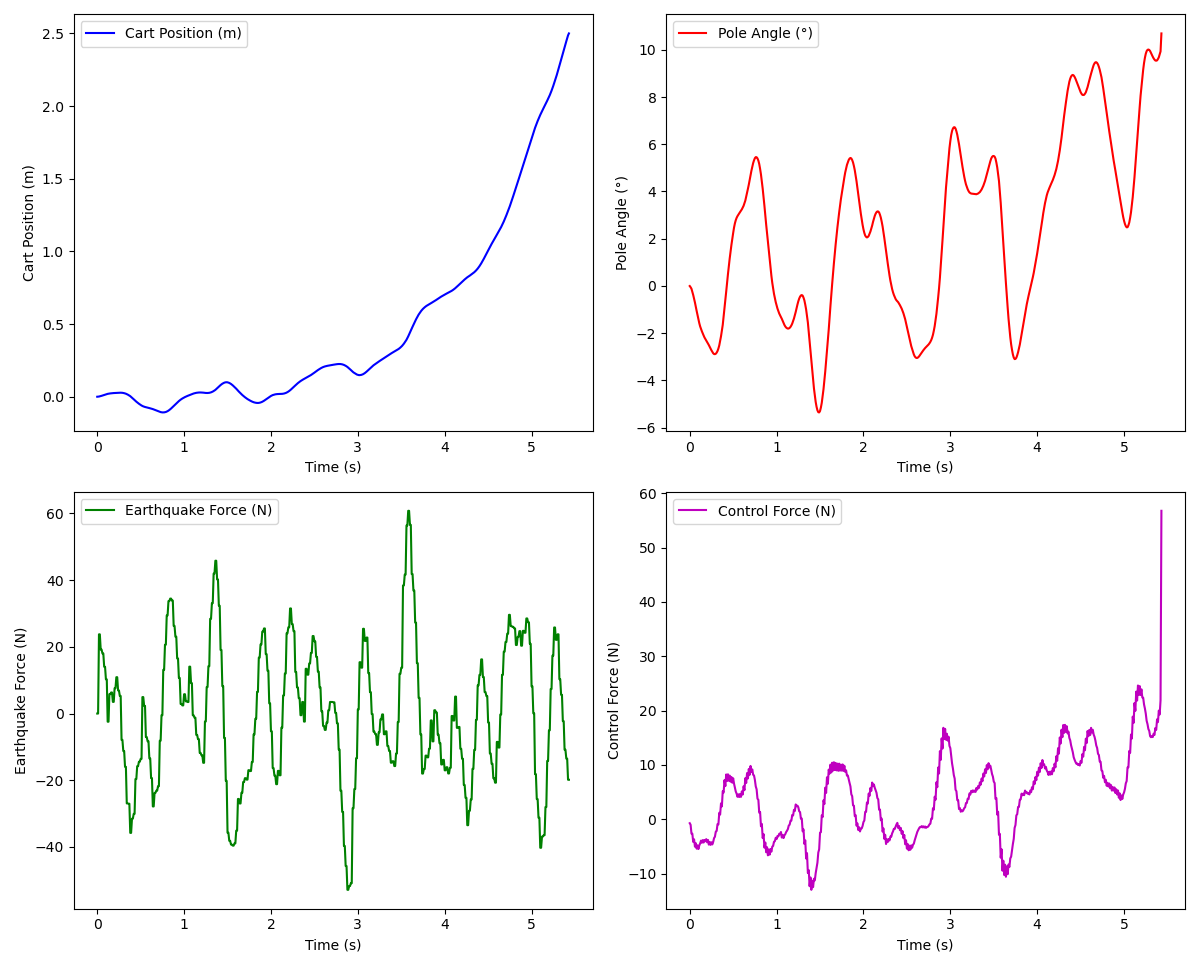
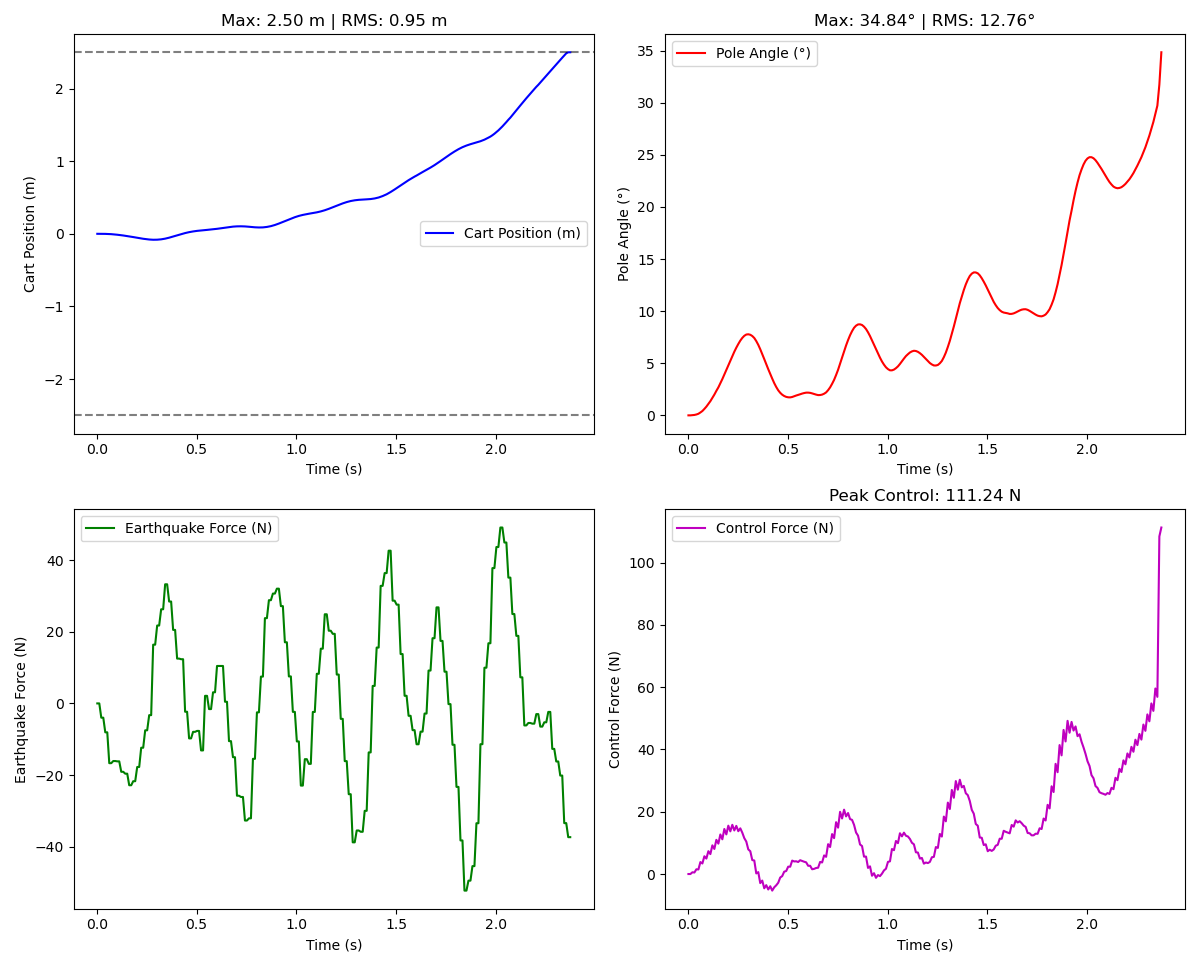
write report

diff --git a/assignments/cart_pole_optimal_control/cart_pole_optimal_control/lqr_controller.py b/assignments/cart_pole_optimal_control/cart_pole_optimal_control/lqr_controller.py
@@ -35,7 +35,7 @@ class CartPoleLQRController(Node):
         ])
         
         # LQR cost matrices
-        self.Q = np.diag([1.0, 1.0, 1.0, 1.0])  # State cost
+        self.Q = np.diag([1.0, 1.0, 1.0, 100.0])  # State cost [x, x_dot, theta, theta_dot]
         self.R = np.array([[1.0]])  # Control cost
         
         # Compute LQR gain matrix
@@ -224,17 +224,6 @@ class CartPoleLQRController(Node):
         plt.xlabel('Time (s)')
         plt.ylabel('Control Force (N)')
         plt.legend()
-
-        # Overall Summary Text
-        summary_text = (
-            f"Constraint Violated: {constraint_violation}\n"
-            f"Max Cart = {max_x:.2f} m\n"
-            f"Max Angle = {max_theta:.2f}°\n"
-            f"Peak Control = {max_u:.2f} N"
-        )
-
-        plt.gcf().text(0.5, 0.02, summary_text, ha='center', fontsize=10)
-
         plt.tight_layout()
         plt.show()
 

diff --git a/assignments/cart_pole_optimal_control/LQR_CartPole_Report.md b/assignments/cart_pole_optimal_control/LQR_CartPole_Report.md
@@ -1,0 +1,206 @@
+# LQR Control of Cart-Pole System Under Earthquake Disturbances
+
+## 1. Introduction
+
+This project evaluates a Linear Quadratic Regulator (LQR) controller
+applied to a cart-pole system in a ROS2 + Gazebo simulation environment
+under earthquake disturbances.
+
+The system state vector is defined as:
+
+x = \[x, x_dot, theta, theta_dot\]\^T
+
+Where: - x: Cart position (m) - x_dot: Cart velocity (m/s) - theta: Pole
+angle (deg in plots) - theta_dot: Pole angular velocity
+
+### Control Objectives
+
+1.  Maintain the pendulum in the upright position\
+2.  Keep the cart within ±2.5 m physical limits\
+3.  Achieve stable operation under earthquake disturbances
+
+------------------------------------------------------------------------
+
+## 2. LQR Design
+
+The LQR cost function is defined as:
+
+J = ∫ (x\^T Q x + u\^T R u) dt
+
+Where:
+
+Q = diag(q1, q2, q3, q4)\
+R = scalar control penalty
+
+Different Q weight configurations were tested to understand performance
+trade-offs between stability, tracking, and control effort.
+
+------------------------------------------------------------------------
+
+## 3. Experimental Configurations
+
+The following Q matrices were evaluated (R kept constant):
+
+1.  Q = diag(\[1, 100, 1, 1\]) --- High cart velocity weight\
+2.  Q = diag(\[1, 1, 1, 100\]) --- High angular velocity weight\
+3.  Q = diag(\[100, 1, 1, 1\]) --- High cart position weight\
+4.  Q = diag(\[1, 1, 100, 1\]) --- High pole angle weight\
+5.  Default balanced configuration
+
+Each case was tested under earthquake force disturbances.
+
+------------------------------------------------------------------------
+
+## 4. Results and Performance Analysis
+
+### Case 1: High Cart Velocity Weight
+
+Q = diag(\[1,100,1,1\])
+
+-   Max cart displacement: 2.50 m (physical boundary reached)\
+-   RMS cart position: 0.95 m\
+-   Max pole angle: 34.84°\
+-   RMS pole angle: 12.76°\
+-   Peak control force: 111.24 N
+
+**Observation:**\
+Large pole oscillations occurred. The cart approached the ±2.5 m limit.
+Emphasizing cart velocity alone does not sufficiently stabilize the
+pendulum. Control effort increased significantly.
+
+------------------------------------------------------------------------
+
+### Case 2: High Angular Velocity Weight
+
+Q = diag(\[1,1,1,100\])
+
+-   Max cart displacement: 0.57 m\
+-   RMS cart position: 0.20 m\
+-   Max pole angle: 7.13°\
+-   RMS pole angle: 3.02°\
+-   Peak control force: 46.52 N
+
+**Observation:**\
+System remained stable for the full duration. Both cart displacement and
+pole deviation were significantly reduced. Control effort remained
+moderate. This configuration showed strong disturbance rejection and
+balanced behavior.
+
+------------------------------------------------------------------------
+
+### Case 3: High Cart Position Weight
+
+Q = diag(\[100,1,1,1\])
+
+-   Max cart displacement: 2.50 m (boundary reached)\
+-   RMS cart position: 1.03 m\
+-   Max pole angle: 8.22°\
+-   RMS pole angle: 3.67°\
+-   Peak control force: 59.11 N
+
+**Observation:**\
+Pole stability improved compared to Case 1, but cart drift eventually
+reached physical limits. Position weighting alone does not prevent
+long-term drift under disturbances.
+
+------------------------------------------------------------------------
+
+### Case 4: High Pole Angle Weight
+
+Q = diag(\[1,1,100,1\])
+
+-   Max cart displacement: 2.50 m (boundary reached)\
+-   RMS cart position: 1.06 m\
+-   Max pole angle: 22.02°\
+-   RMS pole angle: 7.67°\
+-   Peak control force: 127.45 N
+
+**Observation:**\
+Increasing pole angle weight improved short-term upright stability but
+caused aggressive control actions. Large control forces were required,
+leading to boundary excursions.
+
+------------------------------------------------------------------------
+
+### Case 5: Alternative Configuration
+
+-   Max cart displacement: 2.50 m\
+-   RMS cart position: 1.08 m\
+-   Max pole angle: 22.26°\
+-   RMS pole angle: 8.70°\
+-   Peak control force: 102.00 N
+
+**Observation:**\
+System stability was partially maintained, but cart displacement reached
+limits and control effort remained high.
+
+------------------------------------------------------------------------
+
+## 5. Performance Trade-Off Analysis
+
+### 1. Stability Duration
+
+Only the high angular velocity weight configuration maintained
+long-duration stable operation without reaching cart limits.
+
+### 2. Maximum Cart Displacement
+
+Several configurations reached the ±2.5 m boundary, indicating
+insufficient constraint handling under strong disturbances.
+
+### 3. Pole Angle Deviation
+
+Increasing theta or theta_dot weights reduces angular oscillations but
+may increase control aggressiveness.
+
+### 4. Control Effort
+
+Higher state penalties generally increase control effort. Excessive
+control force can lead to actuator saturation and instability.
+
+------------------------------------------------------------------------
+
+## 6. Key Findings
+
+-   Emphasizing angular velocity (theta_dot) provided the best balance
+    between stability and control effort.
+-   Increasing pole angle weight reduces deviation but increases peak
+    control force.
+-   Cart position weighting alone does not guarantee long-term bounded
+    motion under persistent disturbances.
+-   LQR tuning inherently involves trade-offs between disturbance
+    rejection, actuator effort, and state regulation.
+
+------------------------------------------------------------------------
+
+## 7. Learning Outcomes
+
+Through this project:
+
+-   The effect of Q matrix tuning on closed-loop behavior was clearly
+    observed.
+-   Competing control objectives (upright stability vs. position limits
+    vs. energy use) were analyzed.
+-   The importance of disturbance robustness in practical control
+    systems was demonstrated.
+-   Practical implementation experience was gained using ROS2 and Gazebo
+    simulation.
+
+------------------------------------------------------------------------
+
+## 8. Conclusion
+
+The experiments demonstrate that LQR performance strongly depends on the
+relative weighting of state variables in the Q matrix. Under earthquake
+disturbances, prioritizing angular velocity provided the most stable and
+energy-efficient behavior. However, no configuration perfectly enforced
+cart position constraints, highlighting a limitation of pure LQR without
+additional constraint handling or state augmentation.
+
+Future improvements could include: - State constraint handling (e.g.,
+MPC) - Actuator saturation modeling - Integral action to reduce drift -
+Robust control design for disturbance rejection
+
+------------------------------------------------------------------------
+
+End of Report
